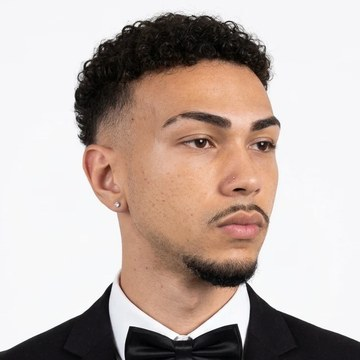
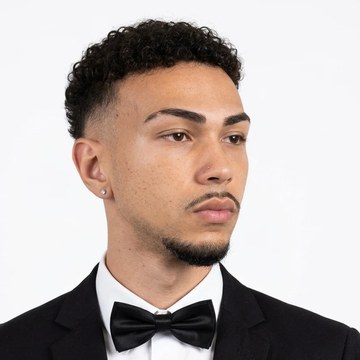
Fotos da equipe no mesmo enquadramento
Claude-Session: https://claude.ai/code/session_01Vb9jCdZ8cmeMztXeSQkbhq

diff --git a/public/index.html b/public/index.html
@@ -170,18 +170,18 @@
    Pra adicionar alguém: copia uma linha e troca os dados.
    foto: link de uma imagem ou deixa vazio pra usar a inicial colorida.  */
 const GALERA = [
-  { nome: 'Alan', papel: 'Desenhista desvalorizado', frase: 'Skatista e marido nas horas vagas.', foto: '/galera/alan.jpg?v=1' },
-  { nome: 'Dudu', papel: 'Galanteador', frase: 'Viajante e muito conhecido pelas asiáticas.', foto: '/galera/dudu.jpg?v=1' },
-  { nome: 'Nauj', papel: 'Seu guia favorito', frase: 'E alma de artista, te leva aos lugares mais belos da cidade.', foto: '/galera/nauj.jpg?v=1' },
-  { nome: 'Poli', papel: 'Especialista em áudio', frase: 'Ouvido absoluto, além de ser o rei do entretenimento.', foto: '/galera/poli.jpg?v=1' },
-  { nome: 'Cas', papel: 'DJ muito bem CASADO', frase: 'Às vezes ele diz que tá trabalhando, mas todo mundo sabe que é mentira.', foto: '/galera/cas.jpg?v=1' },
-  { nome: 'Gelado', papel: 'Empresário e magnata', frase: 'Não faz menos que R$500 por dia.', foto: '/galera/gelado.jpg?v=2' },
-  { nome: 'Ltzin', papel: 'Rei de Recife', frase: 'E ele pode dar choque no seu sistema.', foto: '/galera/ltzin.jpg?v=2' },
-  { nome: 'Matt', papel: 'Especialista em Claude', frase: 'Artista, criador de games, CEO e humorista nas horas vagas.', foto: '/galera/matt.jpg?v=1' },
-  { nome: 'Luketa', papel: 'Beatmaker', frase: 'Melhor amigo do Claude e amor da vida do Ltzin.', foto: '/galera/luketa.jpg?v=1' },
-  { nome: 'Nerivan', papel: 'Rei da engenharia social', frase: 'Especialidade com idosas pelo call center e rei do Fatal Model.', foto: '/galera/nerivan.jpg?v=1' },
-  { nome: 'Yori', papel: 'Agricultor e Produtor Rural', frase: 'Alimenta o Brasil. Onde ele pisa, nasce safra recorde.', foto: '/galera/yori.jpg?v=1' },
-  { nome: 'Meco', papel: 'O Neymar do Funk BH', frase: 'Se não tivesse lesionado tanto, seria uma lenda.', foto: '/galera/meco.jpg?v=1' },
+  { nome: 'Alan', papel: 'Desenhista desvalorizado', frase: 'Skatista e marido nas horas vagas.', foto: '/galera/alan.jpg?v=3' },
+  { nome: 'Dudu', papel: 'Galanteador', frase: 'Viajante e muito conhecido pelas asiáticas.', foto: '/galera/dudu.jpg?v=3' },
+  { nome: 'Nauj', papel: 'Seu guia favorito', frase: 'E alma de artista, te leva aos lugares mais belos da cidade.', foto: '/galera/nauj.jpg?v=3' },
+  { nome: 'Poli', papel: 'Especialista em áudio', frase: 'Ouvido absoluto, além de ser o rei do entretenimento.', foto: '/galera/poli.jpg?v=3' },
+  { nome: 'Cas', papel: 'DJ muito bem CASADO', frase: 'Às vezes ele diz que tá trabalhando, mas todo mundo sabe que é mentira.', foto: '/galera/cas.jpg?v=3' },
+  { nome: 'Gelado', papel: 'Empresário e magnata', frase: 'Não faz menos que R$500 por dia.', foto: '/galera/gelado.jpg?v=3' },
+  { nome: 'Ltzin', papel: 'Rei de Recife', frase: 'E ele pode dar choque no seu sistema.', foto: '/galera/ltzin.jpg?v=3' },
+  { nome: 'Matt', papel: 'Especialista em Claude', frase: 'Artista, criador de games, CEO e humorista nas horas vagas.', foto: '/galera/matt.jpg?v=3' },
+  { nome: 'Luketa', papel: 'Beatmaker', frase: 'Melhor amigo do Claude e amor da vida do Ltzin.', foto: '/galera/luketa.jpg?v=3' },
+  { nome: 'Nerivan', papel: 'Rei da engenharia social', frase: 'Especialidade com idosas pelo call center e rei do Fatal Model.', foto: '/galera/nerivan.jpg?v=3' },
+  { nome: 'Yori', papel: 'Agricultor e Produtor Rural', frase: 'Alimenta o Brasil. Onde ele pisa, nasce safra recorde.', foto: '/galera/yori.jpg?v=3' },
+  { nome: 'Meco', papel: 'O Neymar do Funk BH', frase: 'Se não tivesse lesionado tanto, seria uma lenda.', foto: '/galera/meco.jpg?v=3' },
 ];
 
 const COLORS = ['#e40303','#ff8c00','#c99a00','#00a83a','#2a6bff','#9b2bc2','#e0457b','#1aa3a3'];

diff --git a/CLAUDE.md b/CLAUDE.md
@@ -97,6 +97,6 @@ Fundo escuro (#0d0c12), cores do arco-íris LGBT, **animadas** em todas as pági
 Home: arco-íris (escondido no topo, aparece na primeira rolada) que desce serpenteando conforme o scroll e barra de progresso arco-íris no topo. O mouse é o normal: a varinha e o brilho foram removidos porque deixavam o site lento.
 
 ## Pendências
-- Fotos da galera: padrão terno preto + gravata borboleta + fundo branco (o dono gera numa IA de imagem). Salvar em `public/galera/<nome>.jpg` (360x360, rosto no centro com um respiro em cima e a gravata aparecendo embaixo) e pôr no `foto`. Todos os 12 já têm.
+- Fotos da galera: padrão terno preto + gravata borboleta + fundo branco (o dono gera numa IA de imagem). Salvar em `public/galera/<nome>.jpg` (360x360) e pôr no `foto` (aumentar o `?v=`). **Enquadramento padrão:** detector de rosto YuNet (opencv), rosto ocupando 50% da altura, centro do rosto a 45% do topo, centralizado no x, fundo completado com a cor do canto. Rosto de perfil pode precisar de ajuste manual (o Alan usa 43% e centro deslocado pro cabelo). Todos os 12 já têm.
 - Cloudinary do SimasTok: cloud `k4mjzxdz`, preset unsigned `nv5gv6px` (pasta simastok). Tem um vídeo de teste `simastok/emymgeykftu2cajkjiir` lá (não tá no feed).
 - (caixinha já começa aberta)
